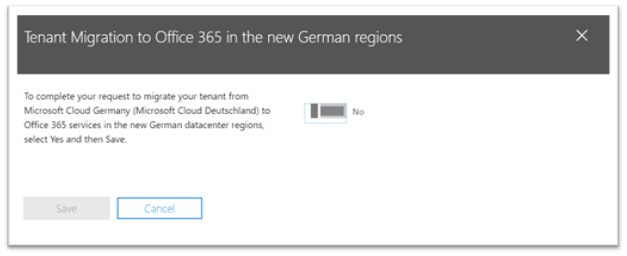
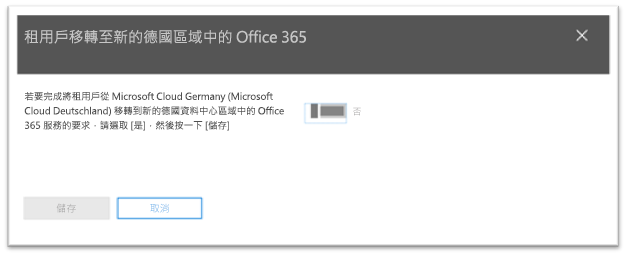
commit translated contents

diff --git a/Enterprise/multi-geo-add-group-with-pdl.md b/Enterprise/multi-geo-add-group-with-pdl.md
@@ -10,20 +10,33 @@ ms.custom: ''
 ms.collection: Strat_SP_gtc
 localization_priority: Priority
 description: 了解如何使用指定的慣用資料位置在多地理位置環境中建立 Office 365 群組。
-ms.openlocfilehash: fb512478d69502eafd633b552d1db2acbec43ef4
-ms.sourcegitcommit: 08e1e1c09f64926394043291a77856620d6f72b5
+ms.openlocfilehash: 96870923c00cebc247609b67378fd39011077d45
+ms.sourcegitcommit: 3539ec707f984de6f3b874744ff8b6832fbd665e
 ms.translationtype: HT
 ms.contentlocale: zh-TW
-ms.lasthandoff: 05/15/2019
-ms.locfileid: "34069999"
+ms.lasthandoff: 12/17/2019
+ms.locfileid: "40072375"
 ---
 # <a name="create-an-office-365-group-with-a-specific-pdl"></a>使用特定 PDL 建立 Office 365 群組
 
-在位於多地理位置環境中的使用者建立 Office 365 群組時，群組慣用資料位置將自動設定為使用者的位置。 如果需要建立具有特定 PDL 的群組，則可以使用 Exchange Online New-UnifiedGroup Microsoft PowerShell cmdlet 來建立。 如此一來，將在指定的 PDL 中佈建與該群組關聯的群組信箱和 SharePoint 網站。
+在位於多地理位置環境中的使用者建立 Office 365 群組時，群組慣用資料位置將自動設定為使用者的位置。 全域、SharePoint 和 Exchange 系統管理員可以在他們所選的任何區域中建立群組。 
 
-您必須是全域系統管理員或 SharePoint Online 或 Exchange Online 系統管理員才能進行此操作。
+如果需要建立具有特定 PDL 的群組，則可以使用 SharePoint 系統管理中心或透過 Exchange Online New-UnifiedGroup Microsoft PowerShell Cmdlet 來執行此動作。 如此一來，將在指定的 PDL 中佈建與該群組關聯的群組信箱和 SharePoint 網站。
 
-若要使用您指定的 PDL 建立 Office 365 群組，請連線至 Exchange Online PowerShell，並傳遞參數 *-MailBoxRegion* 與地理位置代碼。
+若要建立具有您指定的 PDL 的 Office 365 群組，請移至您要建立群組網站的地理位置中的 SharePoint 系統管理中心。
+
+例如：
+
+如果您要在澳洲位置建立群組網站，您可以移至 https://ContosoAUS-admin.sharepoint.com/_layouts/15/online/AdminHome.aspx#/siteManagement
+
+1. 選取 [+ 建立]****。
+2. 遵循程序來建立群組網站。
+
+您的群組網站將在與您從中啟動網站建立要求的 SharePoint 系統管理中心對應的地理位置中佈建。 
+
+使用 Exchange PowerShell 
+
+連線至 Exchange Online PowerShell，並傳遞參數 *-MailBoxRegion* 與地理位置代碼。
 
 例如： 
 

diff --git a/Enterprise/move-onedrive-between-geo-locations.md b/Enterprise/move-onedrive-between-geo-locations.md
@@ -12,12 +12,12 @@ ms.collection:
 - SPO_Content
 localization_priority: Priority
 description: 了解如何將 OneDrive 網站移至不同的地理位置。
-ms.openlocfilehash: ab5540926d5685b4d3055b9aed623048c764044b
-ms.sourcegitcommit: 6d3420e41a52820729dd417511286bf98d3713ea
+ms.openlocfilehash: 9760d61a8a1db76e3abf061552e0a99d85b9092a
+ms.sourcegitcommit: 3539ec707f984de6f3b874744ff8b6832fbd665e
 ms.translationtype: HT
 ms.contentlocale: zh-TW
-ms.lasthandoff: 11/14/2019
-ms.locfileid: "38626163"
+ms.lasthandoff: 12/17/2019
+ms.locfileid: "40072555"
 ---
 # <a name="move-a-onedrive-site-to-a-different-geo-location"></a>將 OneDrive 網站移至不同的地理位置 
 
@@ -47,7 +47,7 @@ OneDrive 服務使用 Azure Blob 儲存體來儲存內容。與使用者 OneDriv
 
 - 您一次最多可以排定 4,000 個移動。
 - 您可以在移動開始時排定更多移動，並將最多 4,000 個擱置移動排入佇列和任何指定的時間。
-- 建議每月不要排定超過 4,000 個移動。
+- 可移動的 OneDrive 大小上限為 1 TB。
 
 ## <a name="moving-a-onedrive-site"></a>移動 OneDrive 網站
 
